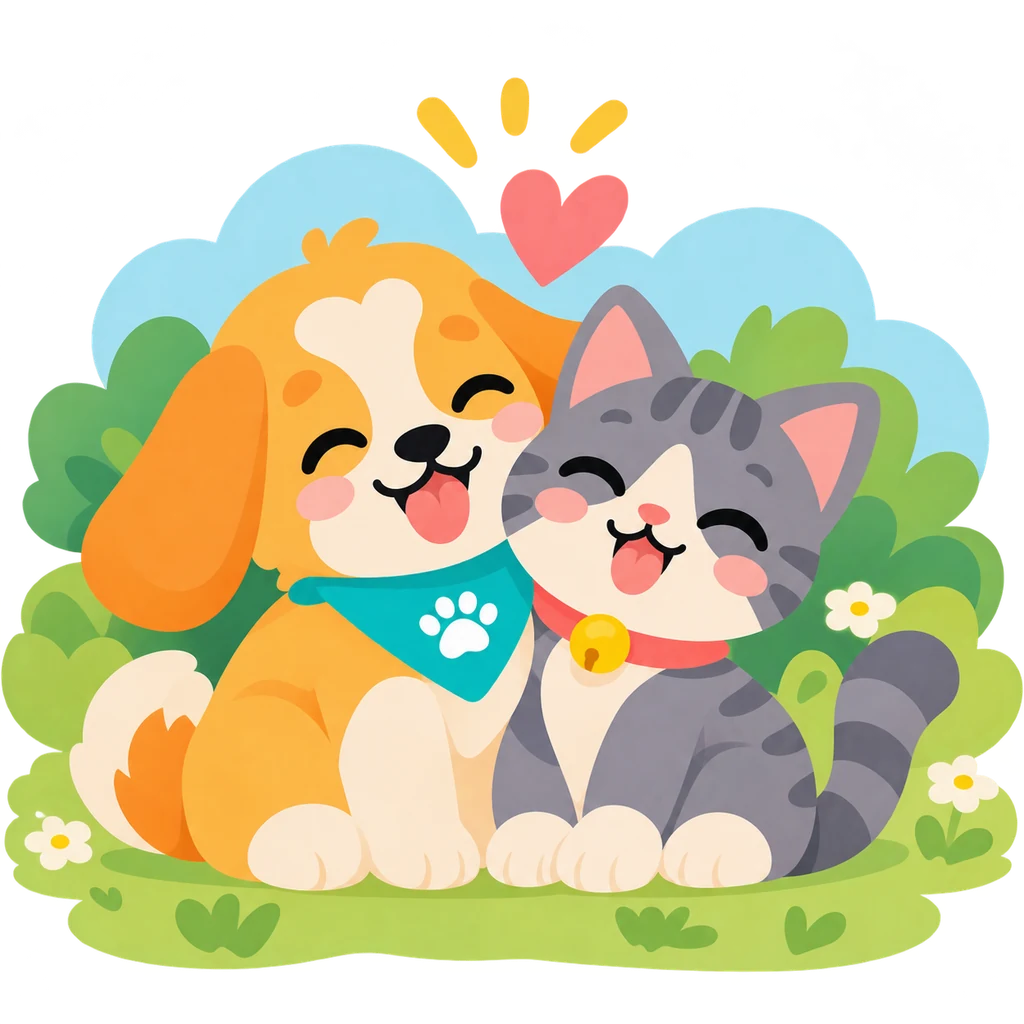
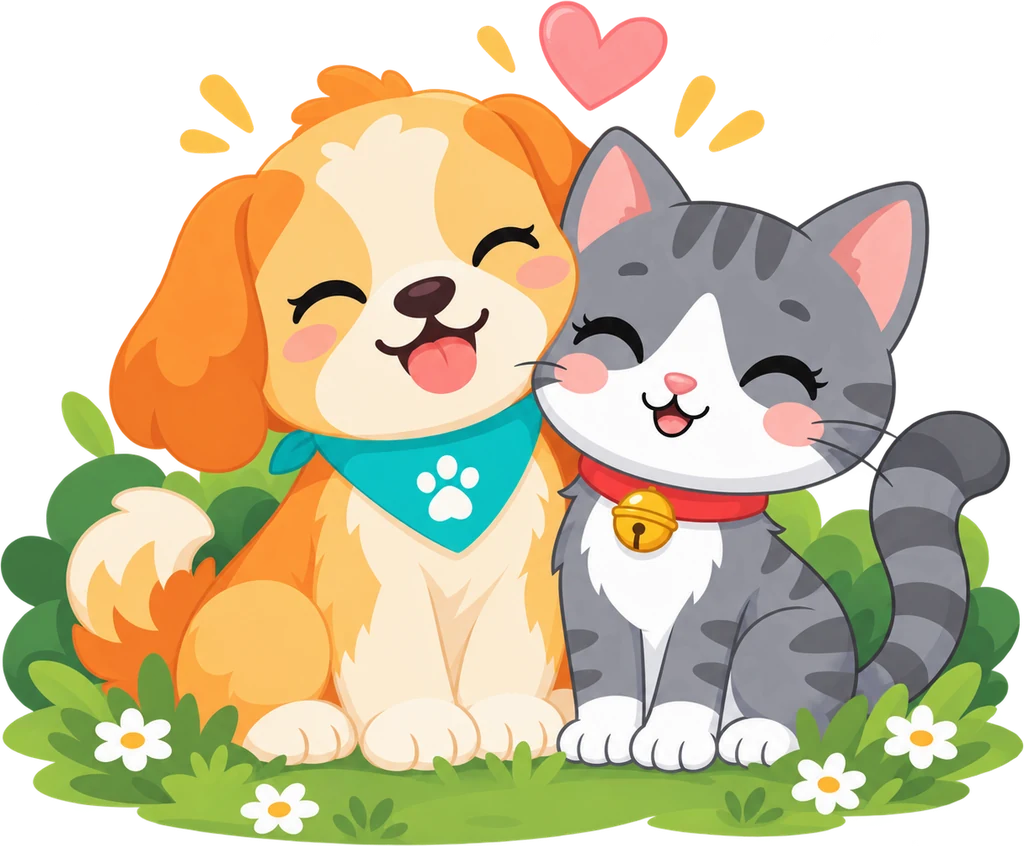
Cat v2 in the scene art: 13 scenes redrawn by ChatGPT, litter scene wired
- 10 individual redraws -> scenes (page around the card made white; black pages fixed)
- premium, trophy and the new litter scene from concept tiles (EDSR 4x)
- litter7 challenge and litter tip now show the litter scene
- Sources and concept sheets kept in docs/art/cat-v2/; remaining v1 list in CAT_V2_REDRAW.md

Claude-Session: https://claude.ai/code/session_01FadyXk4GTkG51z9fMbnELQ

diff --git a/src/ui/art.ts b/src/ui/art.ts
@@ -90,7 +90,7 @@ export const ART = {
     weigh: require('../../assets/art/scenes/weigh.webp') as Img,
     trophy: require('../../assets/art/scenes/trophy.webp') as Img,
   },
-  /** challenge key -> scene card; missing = care icon (litter7 waits for a redo, see the audit) */
+  /** challenge key -> scene card; missing = care icon */
   challenges: {
     walk7: require('../../assets/art/scenes/walk.webp'),
     walk30: require('../../assets/art/scenes/walk.webp'),
@@ -98,6 +98,7 @@ export const ART = {
     play14: require('../../assets/art/scenes/play.webp'),
     brush10: require('../../assets/art/scenes/brushing.webp'),
     perfect5: require('../../assets/art/scenes/trophy.webp'),
+    litter7: require('../../assets/art/scenes/litter.webp'),
   } as Record<string, Img>,
   /** tip id -> scene card; missing = care icon */
   tips: {
@@ -108,6 +109,7 @@ export const ART = {
     meals: require('../../assets/art/scenes/meals.webp'),
     weigh: require('../../assets/art/scenes/weigh.webp'),
     calm: require('../../assets/art/scenes/bed.webp'),
+    litter: require('../../assets/art/scenes/litter.webp'),
   } as Record<string, Img>,
 };
 

diff --git a/tools/art/cat_v2_scenes.py b/tools/art/cat_v2_scenes.py
@@ -1,0 +1,28 @@
+"""Cat v2 scene cards from ChatGPT's individual redraws (docs/art/cat-v2/scenes/*.png).
+Scenes are shown by <Scene> (rounded white card, resizeMode cover): the page around each card is
+made white (some came on black) and the image is cropped to the card.
+duo.png is a transparent cut-out (onboarding reminders hero): only trimmed.
+Writes assets/art/scenes/<name>.webp, longest side 1024.  Usage: python3 tools/art/cat_v2_scenes.py [name ...]"""
+import numpy as np, sys, os, cv2
+from PIL import Image
+SRC='docs/art/cat-v2/scenes'; OUT='assets/art/scenes'
+names=sys.argv[1:] or sorted(f[:-4] for f in os.listdir(SRC) if f.endswith('.png'))
+for n in names:
+    im=Image.open(f'{SRC}/{n}.png').convert('RGBA'); a=np.array(im)
+    if (a[:,:,3]<10).mean()>0.05:
+        ys,xs=np.where(a[:,:,3]>8); box=(xs.min(),ys.min(),xs.max()+1,ys.max()+1); out=im.crop(box)
+    else:
+        rgb=a[:,:,:3].astype(np.int16); page=np.median(np.concatenate([rgb[0],rgb[-1],rgb[:,0],rgb[:,-1]]),0)
+        # the page around the card becomes white, like the card it is shown in (black pages too)
+        near=(np.abs(rgb-page).max(2)<=12).astype(np.uint8)
+        k,lab=cv2.connectedComponents(near,connectivity=4)
+        border=set(np.unique(np.concatenate([lab[0],lab[-1],lab[:,0],lab[:,-1]])))-{0}
+        pg=cv2.dilate(np.isin(lab,list(border)).astype(np.uint8),np.ones((3,3),np.uint8))>0
+        rgb=rgb.copy(); rgb[pg]=255
+        art=~pg
+        rows=np.where(art.mean(1)>0.3)[0]; cols=np.where(art.mean(0)>0.3)[0]
+        y0,y1,x0,x1=rows.min(),rows.max()+1,cols.min(),cols.max()+1
+        out=Image.fromarray(rgb.astype(np.uint8)).crop((x0,y0,x1,y1))
+    s=1024/max(out.size)
+    if s<1: out=out.resize((round(out.width*s),round(out.height*s)),Image.LANCZOS)
+    out.save(f'{OUT}/{n}.webp','WEBP',quality=88,method=6); print(n,out.size)

diff --git a/docs/art/CAT_V2_REDRAW.md b/docs/art/CAT_V2_REDRAW.md
@@ -21,3 +21,11 @@ On 31 Oct the owner approved Gemini's cat (from the first cat videos) as **the**
 | litter scene (still pending) | the cat proudly next to a clean litter tray with a scoop, **v2 cat** |
 
 Deliver as before: high-resolution PNG sheets or single images on a PR. Claude reviews against the v2 reference and integrates.
+
+## Status (31 Oct, evening)
+**In the app (v2 cat):** appointments, bath, bed, brushing, duo, meals, medication, moments, night, play (ChatGPT's individual redraws, `docs/art/cat-v2/scenes/`, built with `tools/art/cat_v2_scenes.py`); premium, trophy, litter (cut from concept sheet tiles and upscaled 4× with EDSR, a bit softer: replace when single images exist). Litter is now wired to the litter7 challenge and the litter tip.
+
+**Still v1 cat — needed as single full-size images with BOTH pets (they are shown to dog and cat owners alike):**
+- `records`, `water`, `weigh`, `walk` scenes (the concept tiles are cat-only, or Honey wears a red harness with a bell)
+- badges `family`, `moment`, `streak3`, `streak7` (concept tiles have text and other shapes: keep the existing medal design and swap the cat)
+- `vaccine`, `vet`: not shown in the app today; low priority

diff --git a/docs/art/cat-v2/scenes/README_from_chatgpt.md b/docs/art/cat-v2/scenes/README_from_chatgpt.md
@@ -1,0 +1,3 @@
+PAVURIO CAT V2 — CONCEPT DRAFT BATCH 01
+
+These are 10 individually generated full-resolution PNG concepts, not source-image edits or QA-approved production art. Some do not match original dimensions or transparency. Claude must review each against original assets and master_tabby.png before integrating. Do not copy directly into assets/.
